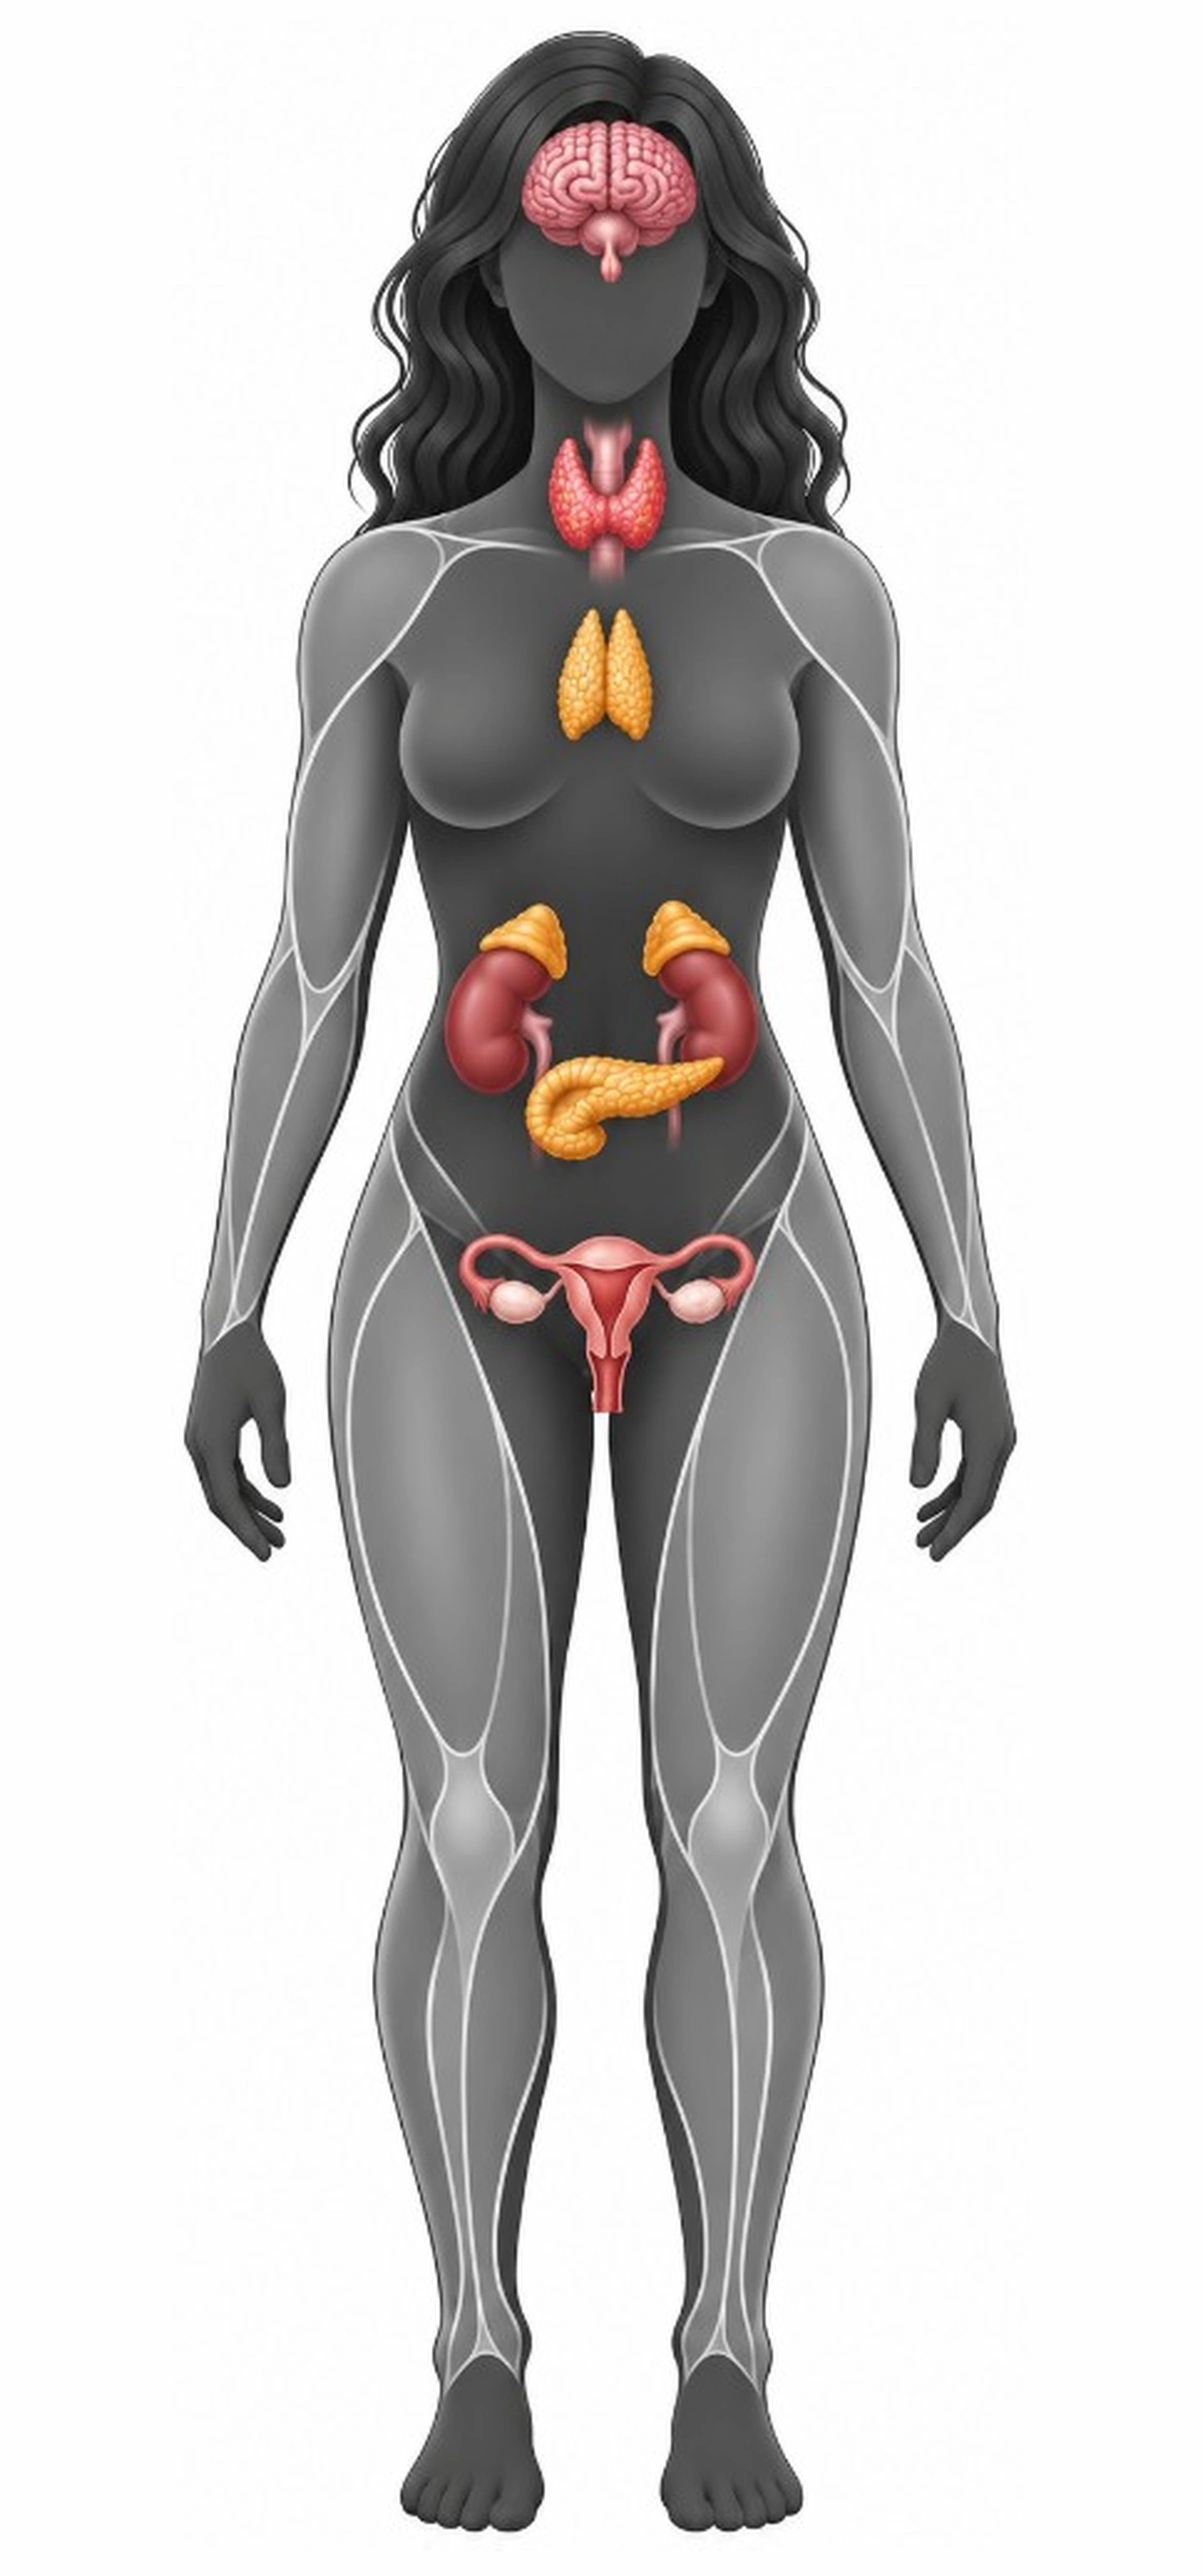
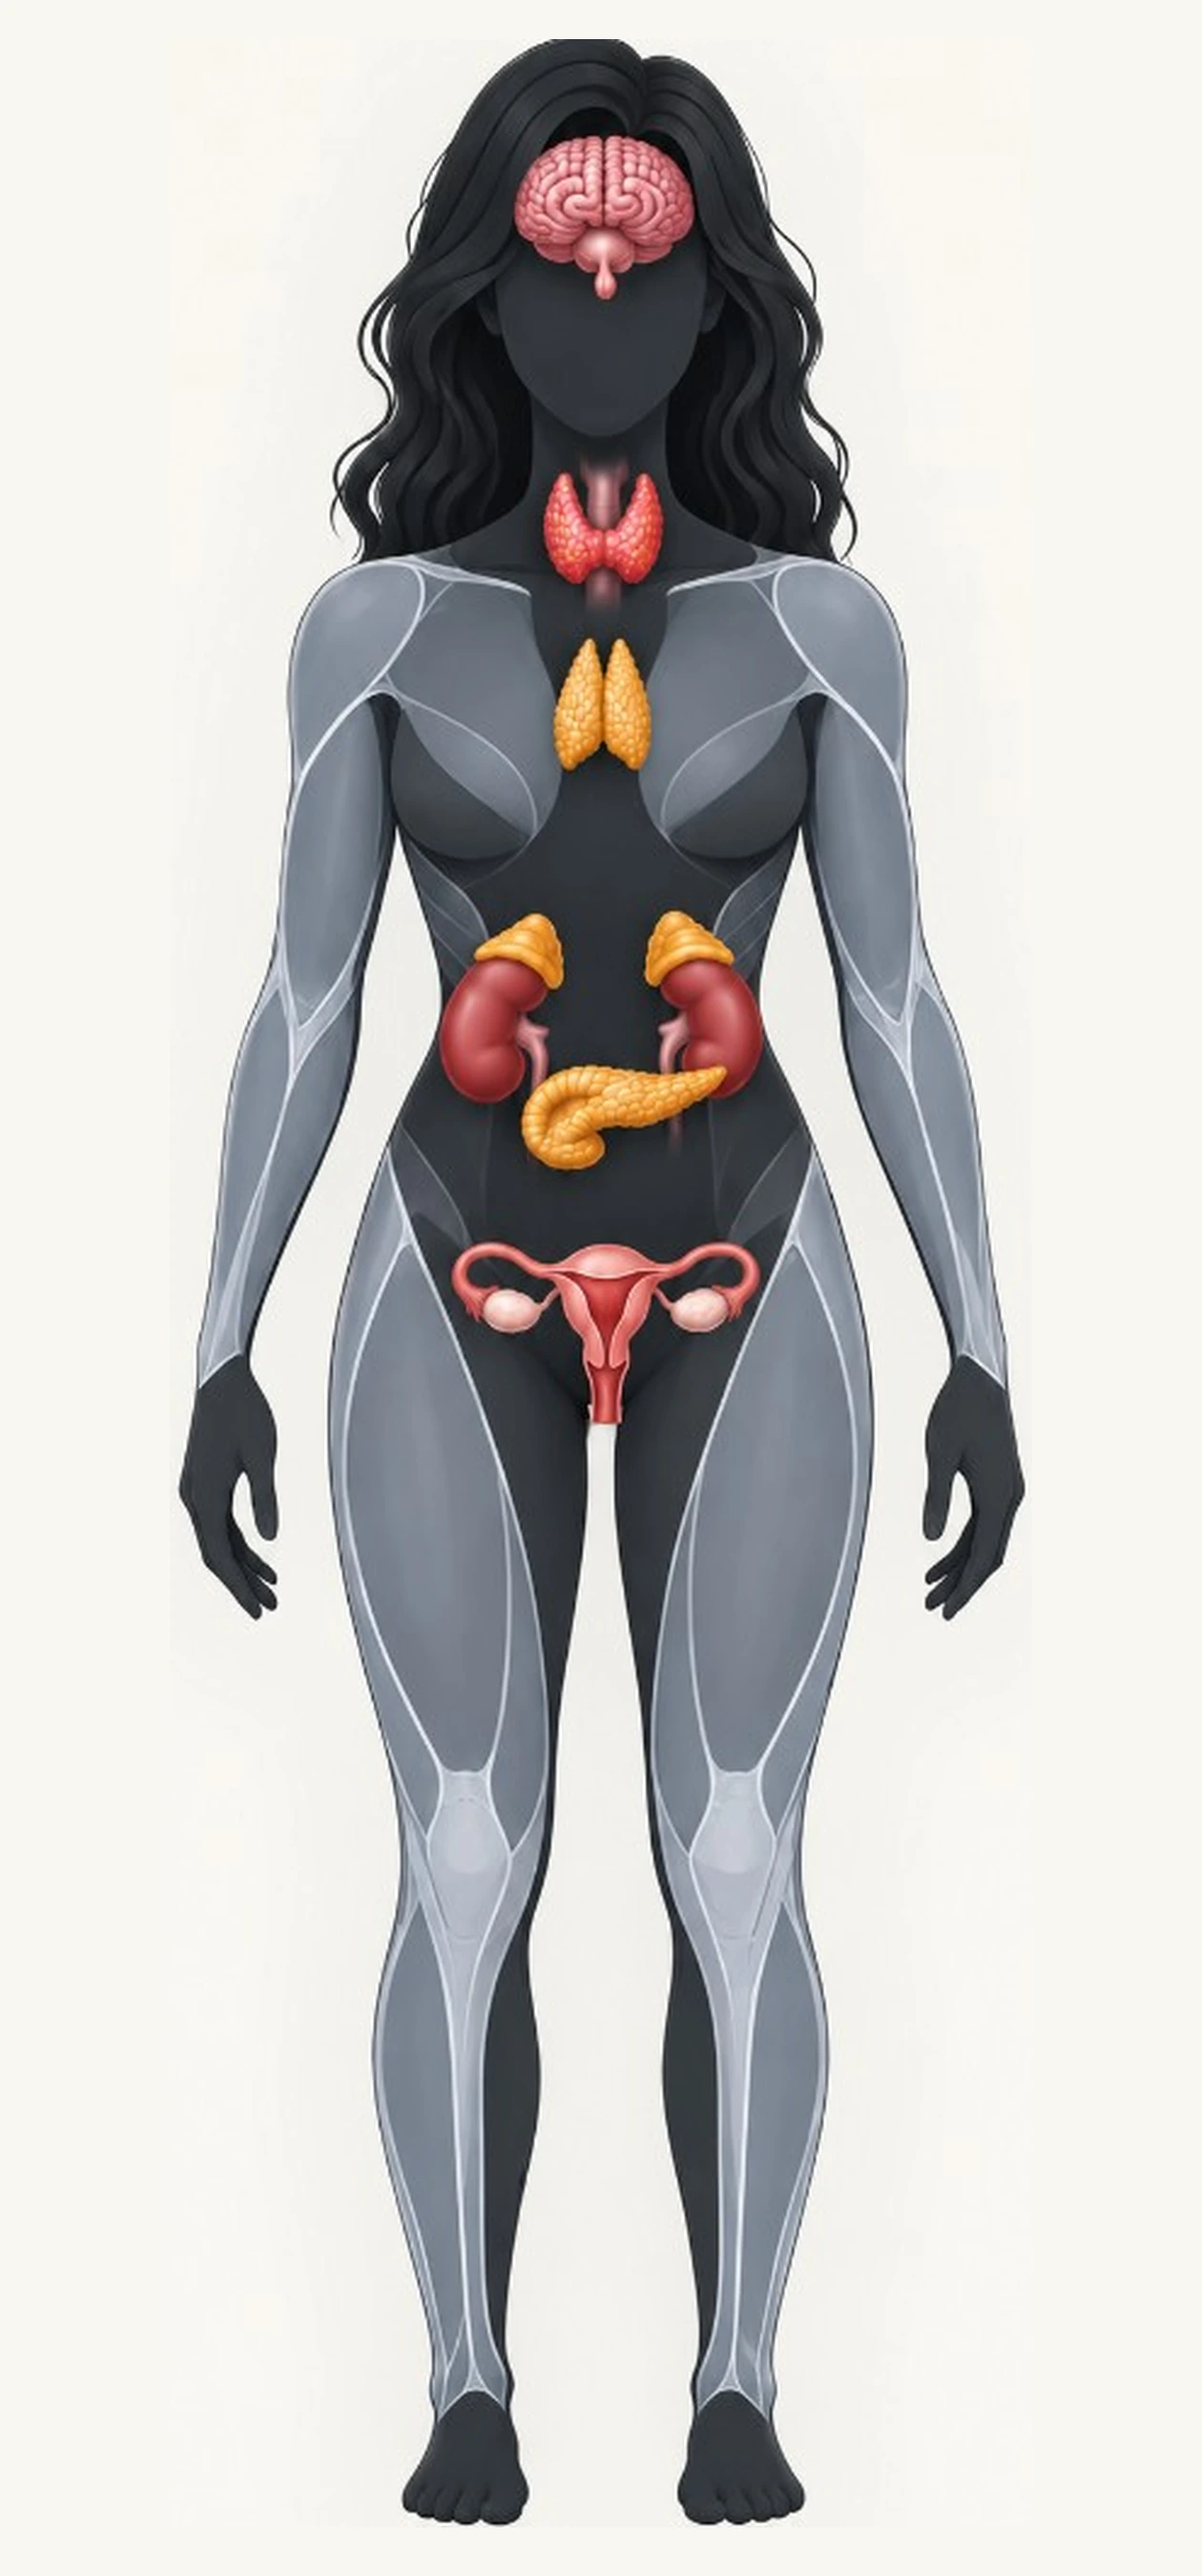
Update Endocrine overlays to new female/male full-figure refs
Replace endocrine front overlays with the latest medical illustrations
for admin and storefront parity, pointing catalogue defaults at v2.

Changed region(s): [[0.1238, 0.0, 0.8667, 0.9956], [0.619, 0.56, 0.65, 0.5911]]

diff --git a/homeopathypharma/app/Services/HealthExplorerCatalog.php b/homeopathypharma/app/Services/HealthExplorerCatalog.php
@@ -218,10 +218,10 @@ class HealthExplorerCatalog
             $base['overlay_mode'] = 'full_figure';
             $base['overlays'] = [
                 'female' => [
-                    'front' => '/images/health-explorer/overlays/endocrine-female-front-v1.webp',
+                    'front' => '/images/health-explorer/overlays/endocrine-female-front-v2.webp',
                 ],
                 'male' => [
-                    'front' => '/images/health-explorer/overlays/endocrine-male-front-v1.webp',
+                    'front' => '/images/health-explorer/overlays/endocrine-male-front-v2.webp',
                 ],
             ];
         }
